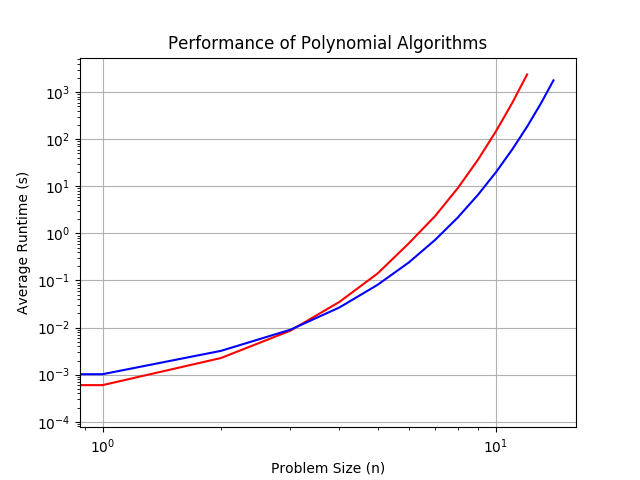
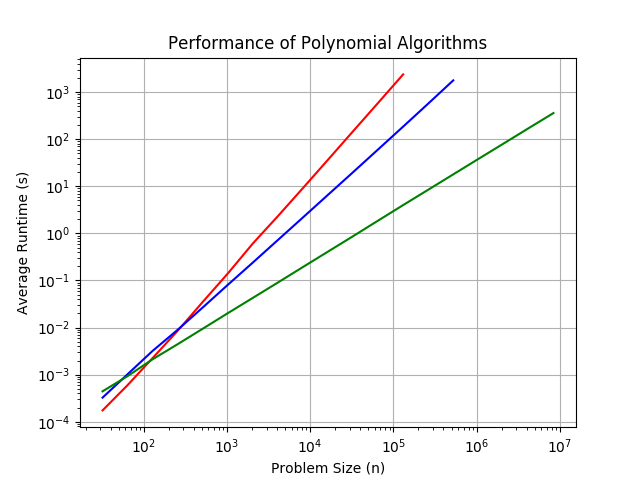
Update readme, fix graph scaling

diff --git a/assn5/graph.py b/assn5/graph.py
@@ -23,7 +23,7 @@ def readData(filename):
     n_data = []
     for i in range(len(data)):
         s = data[i].split(",")
-        n = s[0]
+        n = int(s[0])
         time = float(s[1])/10
         n_data.append(n)
         time_data.append(time)
